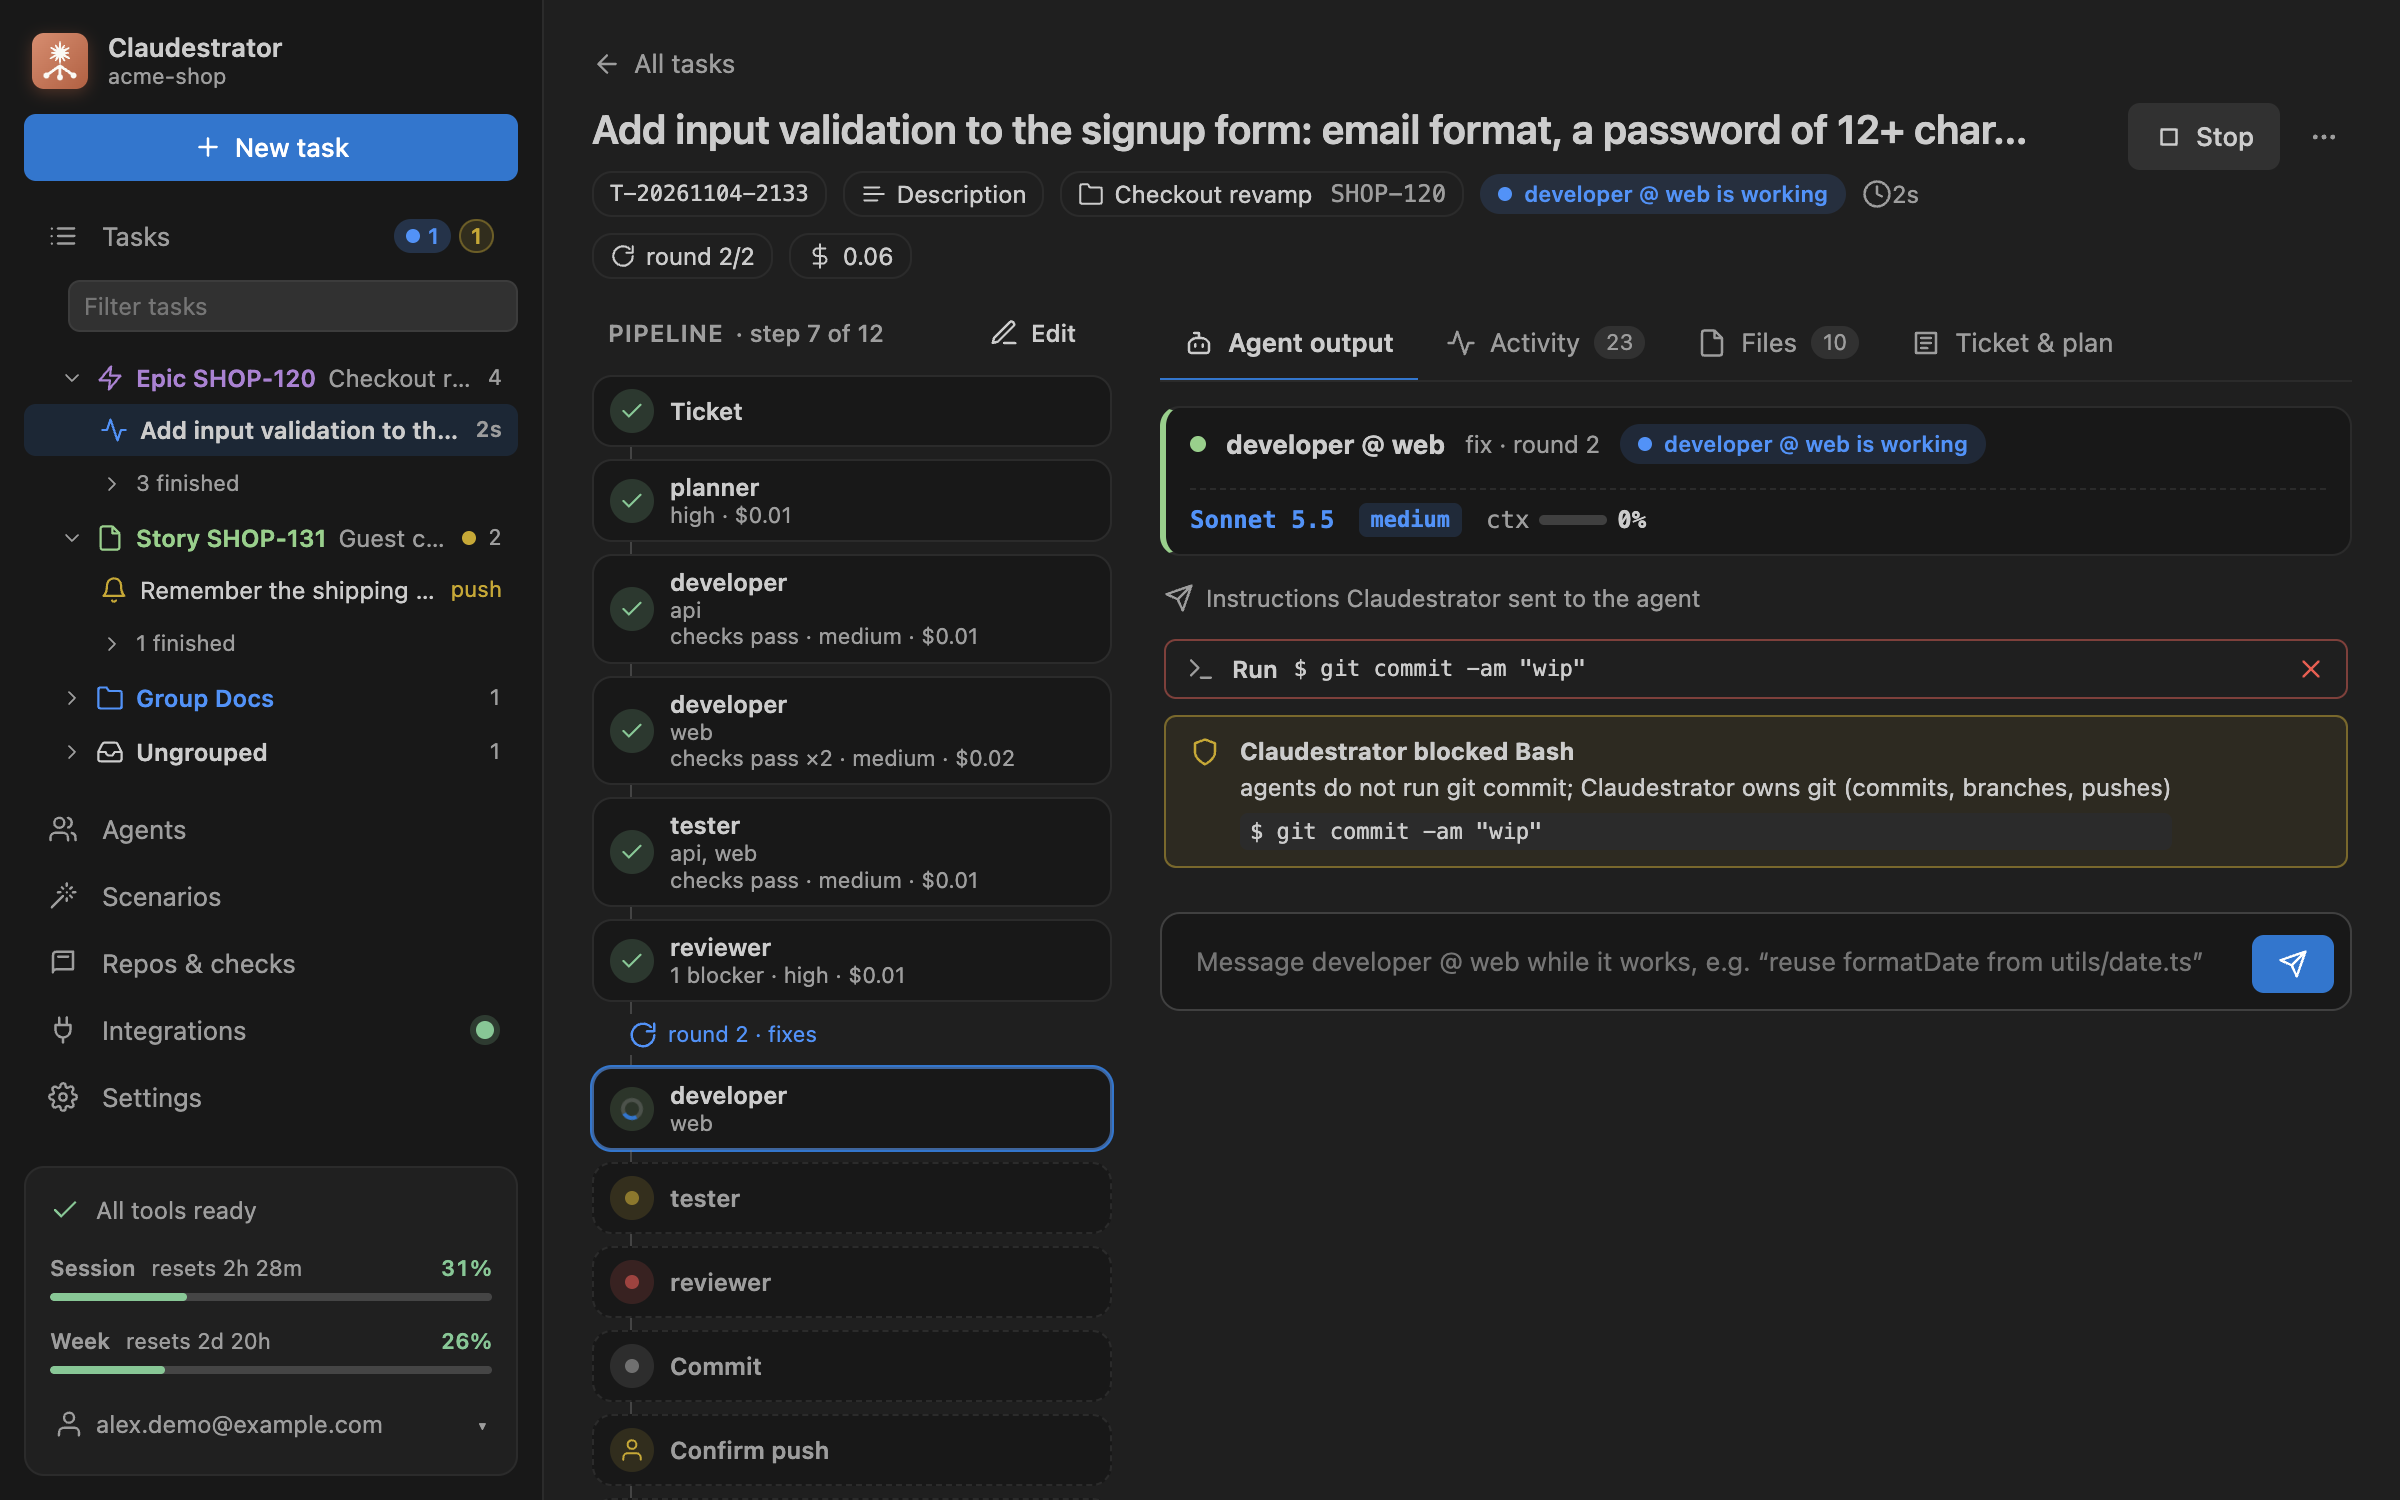
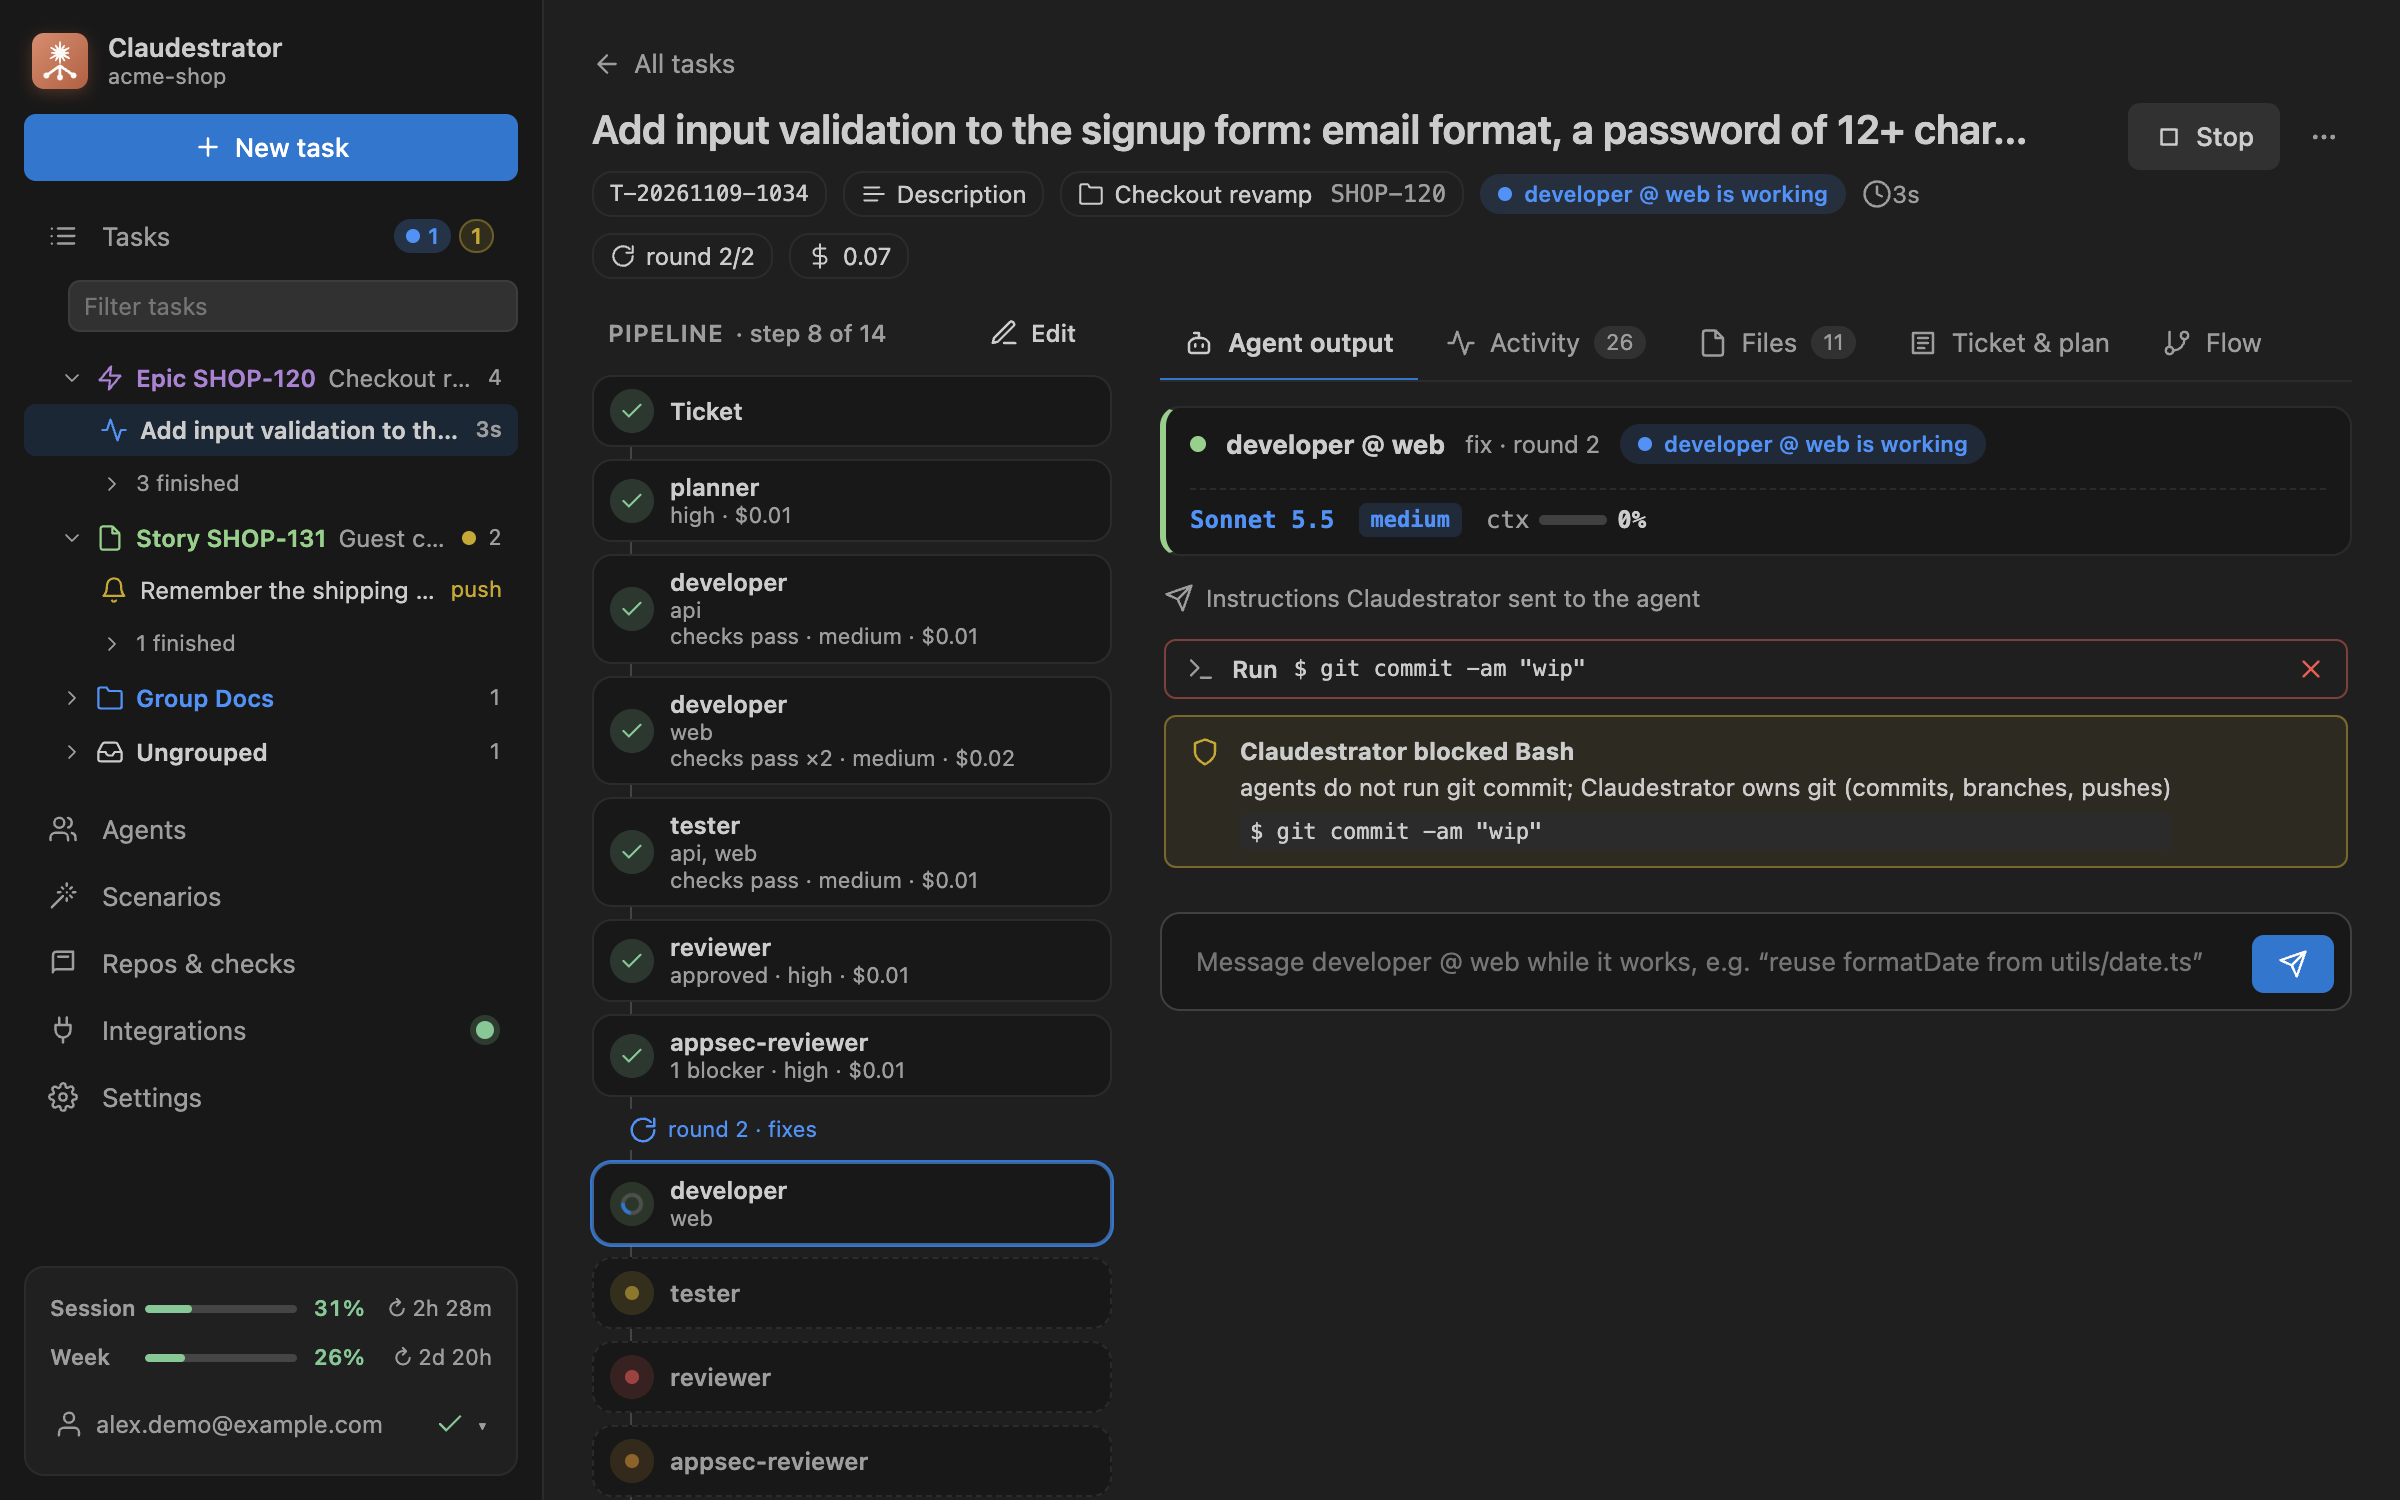
docs(claudestrator): Marketplace screenshots with parallel reviewers and the scenario diagram
- every screenshot taken again: the new built-in scenarios, appsec-reviewer in Deliver
- new: both reviewers at work at once, a task's flow with its Parallel, a scenario
  as a diagram with a Loop, a Parallel and a step's own instructions
- shoot.mjs turns appsec-reviewer on, takes the new shots and copies the set to the
  JetBrains plugin's Marketplace folder when it is there
- cdp.mjs: a viewport shot starts where the window is scrolled to

diff --git a/vscode/README.md b/vscode/README.md
@@ -38,6 +38,10 @@ The orchestration is code, not a prompt: a pure state machine decides what runs 
 
 ![Agents at work: developer per repo, then the tester across all of them](https://raw.githubusercontent.com/yurii-bondar/vs-code-extensions/main/claudestrator/media/screenshots/03-running.png)
 
+**Two reviewers at once: the reviewer and the appsec reviewer, each in its own session**
+
+![Two reviewers at once: the reviewer and the appsec reviewer, each in its own session](https://raw.githubusercontent.com/yurii-bondar/vs-code-extensions/main/claudestrator/media/screenshots/11-parallel-review.png)
+
 **The reviewer found a blocker: a fix round**
 
 ![The reviewer found a blocker: a fix round](https://raw.githubusercontent.com/yurii-bondar/vs-code-extensions/main/claudestrator/media/screenshots/04-fix-round.png)
@@ -45,6 +49,10 @@ The orchestration is code, not a prompt: a pure state machine decides what runs 
 **Everything is committed locally; the push and the draft PRs wait for you**
 
 ![Everything is committed locally; the push and the draft PRs wait for you](https://raw.githubusercontent.com/yurii-bondar/vs-code-extensions/main/claudestrator/media/screenshots/05-confirm-push.png)
+
+**The task's flow: the review loop, its round, and the reviewers that work in parallel**
+
+![The task's flow: the review loop, its round, and the reviewers that work in parallel](https://raw.githubusercontent.com/yurii-bondar/vs-code-extensions/main/claudestrator/media/screenshots/12-task-flow.png)
 
 **Tasks grouped by what needs you**
 
@@ -54,9 +62,9 @@ The orchestration is code, not a prompt: a pure state machine decides what runs 
 
 ![Agents and the pipeline: models, effort, order](https://raw.githubusercontent.com/yurii-bondar/vs-code-extensions/main/claudestrator/media/screenshots/07-agents.png)
 
-**Scenarios: Deliver, Check readiness, Audit and your own**
+**Scenarios: Deliver, the built-in ones and your own**
 
-![Scenarios: Deliver, Check readiness, Audit and your own](https://raw.githubusercontent.com/yurii-bondar/vs-code-extensions/main/claudestrator/media/screenshots/08-scenarios.png)
+![Scenarios: Deliver, the built-in ones and your own](https://raw.githubusercontent.com/yurii-bondar/vs-code-extensions/main/claudestrator/media/screenshots/08-scenarios.png)
 
 **Repos and the checks that run after each agent**
 
@@ -65,6 +73,10 @@ The orchestration is code, not a prompt: a pure state machine decides what runs 
 **A group (epic, story) with its Jira key and the instructions it brings**
 
 ![A group (epic, story) with its Jira key and the instructions it brings](https://raw.githubusercontent.com/yurii-bondar/vs-code-extensions/main/claudestrator/media/screenshots/10-groups.png)
+
+**A scenario as a diagram: a Loop, a Parallel of reviewers, You approve, and one step's own instructions**
+
+![A scenario as a diagram: a Loop, a Parallel of reviewers, You approve, and one step's own instructions](https://raw.githubusercontent.com/yurii-bondar/vs-code-extensions/main/claudestrator/media/screenshots/13-scenario-diagram.png)
 
 ## Using it
 
